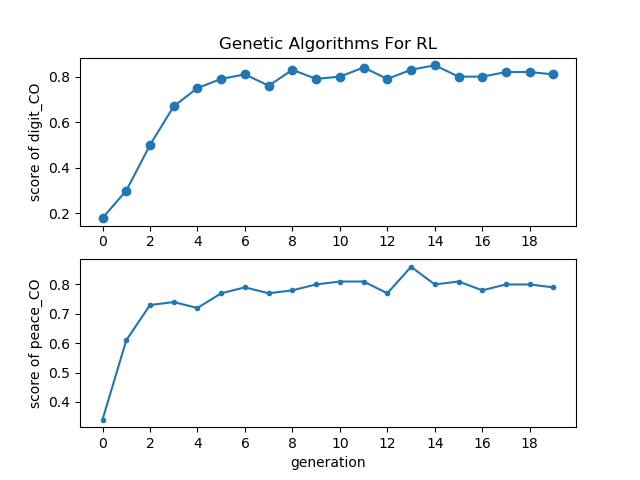
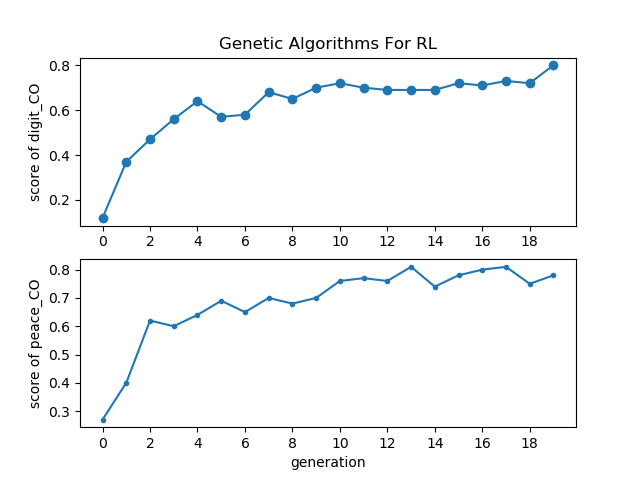
frozenlake 8x8 results added

diff --git a/gen_alg_for_frozenlake.py b/gen_alg_for_frozenlake.py
@@ -34,7 +34,7 @@ def cross_over_with_digit(parent1, parent2):
     return children[0], children[1]
 
 
-def cross_over_with_peaces_of_parents(parent1, parent2):
+def cross_over_with_pieces_of_parents(parent1, parent2):
     pos = np.random.randint(gene_size)
     child1 = np.concatenate((parent1[:pos], parent2[pos:]), axis=0)
     child2 = np.concatenate((parent1[pos:], parent2[:pos]), axis=0)
@@ -48,7 +48,7 @@ def cross_over_with_peaces_of_parents(parent1, parent2):
     return child1, child2
 
 
-def play_agent(agent, episode):
+def play_agent(agent, episode, env):
     total_reward = 0
     for ep in range(episode):
         state = env.reset()
@@ -71,7 +71,7 @@ for n in range(generation_number):
 
     for individual in population:
         # play for every individual agent return fitness score(reward)
-        fitness_scores.append(play_agent(individual, n_episode))
+        fitness_scores.append(play_agent(individual, n_episode, env))
     best_individual = np.max(fitness_scores)
     best_scores_with_digit_crossover.append(best_individual)
     # population ranks from best to worst
@@ -96,7 +96,7 @@ for n in range(generation_number):
 
     for individual in population:
         # play for every individual agent return fitness score(reward)
-        fitness_scores.append(play_agent(individual, n_episode))
+        fitness_scores.append(play_agent(individual, n_episode, env))
     best_individual = np.max(fitness_scores)
     best_scores_with_peaces_crossover.append(best_individual)
     # population ranks from best to worst
@@ -106,12 +106,11 @@ for n in range(generation_number):
     select_probs = np.array(fitness_scores) / np.sum(fitness_scores)
     child_set = []
     for generate in range(23):
-        children = cross_over_with_peaces_of_parents(population[np.random.choice(range(population_size), p=select_probs)],
+        children = cross_over_with_pieces_of_parents(population[np.random.choice(range(population_size), p=select_probs)],
                                                      population[np.random.choice(range(population_size), p=select_probs)])
         child_set.append(children[0])
         child_set.append(children[1])
     population = child_set + elite_pop
-
 
 y1 = best_scores_with_digit_crossover
 y2 = best_scores_with_peaces_crossover
@@ -132,5 +131,83 @@ plt.gca().xaxis.set_major_locator(locator)
 plt.show()
 
 
+env = gym.make("FrozenLake8x8-v0")
+population_size = 50
+# gene size ==> state space for the game
+gene_size = env.observation_space.n
+# policy options for game playing
+gene_options = 4
+# iter count
+generation_number = 40
+# elite population size of each generation
+elite_pop_size = 4
+# numbers of episodes for evaluate fitness score
+n_episode = 100
+# mutation chance in crossover
+mutation_chance = 0.05
+
+population = [np.random.randint(gene_options, size=gene_size) for _ in range(population_size)]
+best_scores_with_digit_crossover = []
+
+for n in range(generation_number):
+    fitness_scores = []
+
+    for individual in population:
+        # play for every individual agent return fitness score(reward)
+        fitness_scores.append(play_agent(individual, n_episode, env))
+    best_individual = np.max(fitness_scores)
+    best_scores_with_digit_crossover.append(best_individual)
+    # population ranks from best to worst
+    population_ranks = list(reversed(np.argsort(fitness_scores)))
+    # with population ranks select best scores and give them elite position to keep living for next generation
+    elite_pop = [population[x] for x in population_ranks[:elite_pop_size]]
+    select_probs = np.array(fitness_scores) / np.sum(fitness_scores)
+    child_set = []
+    for generate in range(23):
+        children = cross_over_with_digit(population[np.random.choice(range(population_size), p=select_probs)],
+                                         population[np.random.choice(range(population_size), p=select_probs)])
+        child_set.append(children[0])
+        child_set.append(children[1])
+    population = child_set + elite_pop
 
 
+# generate random population(initialize)
+population = [np.random.randint(gene_options, size=gene_size) for _ in range(population_size)]
+best_scores_with_peaces_crossover = []
+for n in range(generation_number):
+    fitness_scores = []
+
+    for individual in population:
+        # play for every individual agent return fitness score(reward)
+        fitness_scores.append(play_agent(individual, n_episode, env))
+    best_individual = np.max(fitness_scores)
+    best_scores_with_peaces_crossover.append(best_individual)
+    # population ranks from best to worst
+    population_ranks = list(reversed(np.argsort(fitness_scores)))
+    # with population ranks select best scores and give them elite position to keep living for next generation
+    elite_pop = [population[x] for x in population_ranks[:elite_pop_size]]
+    select_probs = np.array(fitness_scores) / np.sum(fitness_scores)
+    child_set = []
+    for generate in range(23):
+        children = cross_over_with_pieces_of_parents(population[np.random.choice(range(population_size), p=select_probs)],
+                                                     population[np.random.choice(range(population_size), p=select_probs)])
+        child_set.append(children[0])
+        child_set.append(children[1])
+    population = child_set + elite_pop
+y1 = best_scores_with_digit_crossover
+y2 = best_scores_with_peaces_crossover
+
+x = np.arange(40)
+
+plt.subplot(2, 1, 1)
+plt.plot(x, y1, 'o-')
+plt.title('Genetic Algorithms For RL')
+plt.ylabel('score of digit_CO')
+locator = ticker.MultipleLocator(2)
+plt.gca().xaxis.set_major_locator(locator)
+plt.subplot(2, 1, 2)
+plt.plot(x, y2, '.-')
+plt.xlabel('generation')
+plt.ylabel('score of peace_CO')
+plt.gca().xaxis.set_major_locator(locator)
+plt.show()

diff --git a/README.md b/README.md
@@ -14,4 +14,8 @@
  [metaheuristics-comparison](https://github.com/kivancguckiran/metaheuristics-comparison/blob/master/genetic/project.py)
  
  ## RESULTS :
+ Environment : FrozenLake4x4-v0
  ![picture](Figure_1.png)
+ 
+ Environment : FrozenLake8x8-v0
+ ![picture](Figure_2.png)
